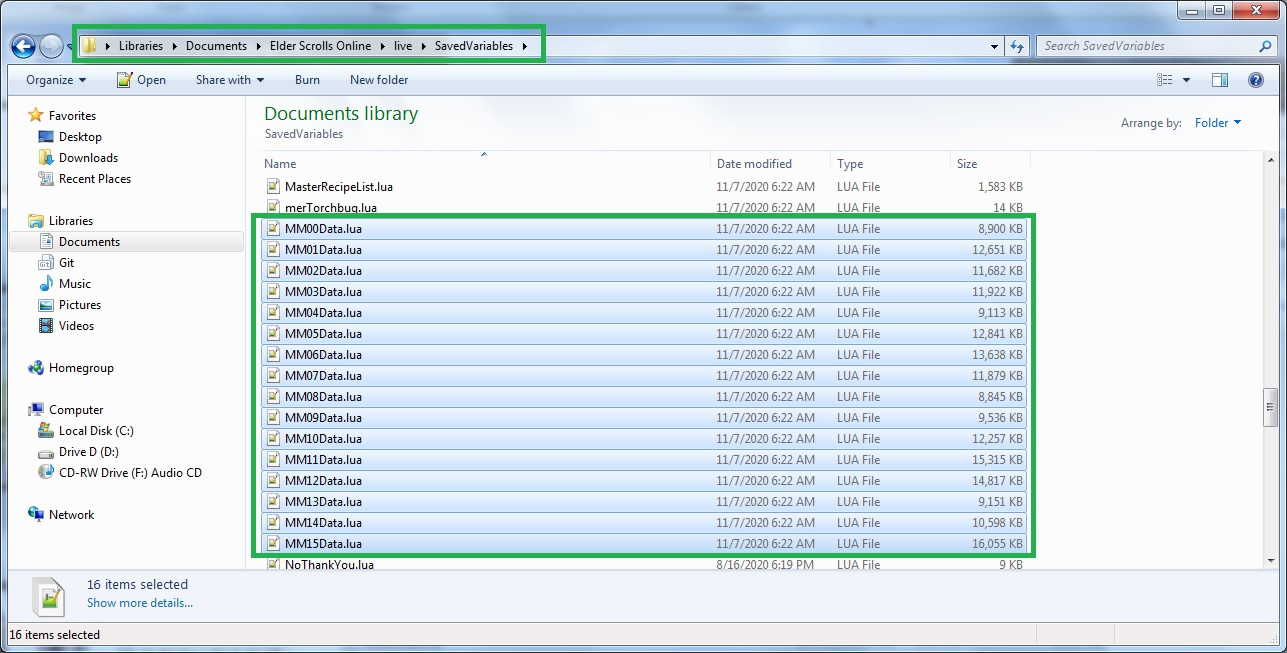
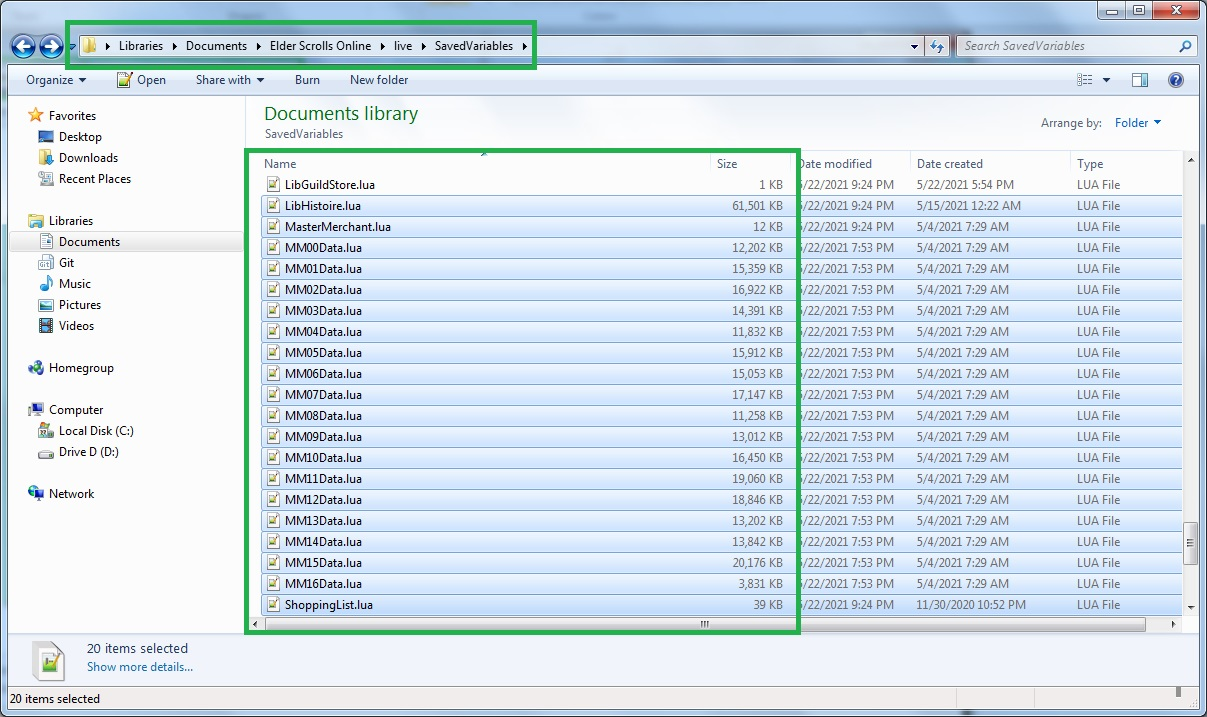
Added new screen shots

diff --git a/3-master_merchant.html b/3-master_merchant.html
@@ -23,7 +23,8 @@ title: Master Merchant
 <p class="list-1">&bull;&nbsp; <a href="#VersionHistory">3.2 Version History</a></p>
 <p class="list-1">&bull;&nbsp; <a href="#Complaintsandnegativecomments">3.3 Complaints and negative comments</a></p>
 <p class="list-1">&bull;&nbsp; <a href="#MasterMerchantExtensions">3.4 Master Merchant Extensions</a></p>
-<p class="list-2">&bull;&nbsp; <a href="#ShoppingListbyMildFlavour">3.4.1 Shopping List - by MildFlavour</a></p>
+<p class="list-2">&bull;&nbsp; <a href="#ShoppingList">3.4.1 Shopping List</a></p>
+<p class="list-2">&bull;&nbsp; <a href="#Bonanza">3.4.2 Bonanza!</a></p>
 <p class="list-1">&bull;&nbsp; <a href="#LibGuildStoreforMasterMerchant">3.5 LibGuildStore for Master Merchant</a></p>
 <p class="list-1">&bull;&nbsp; <a href="#Scanning">3.6 Scanning</a></p>
 <p class="list-2">&bull;&nbsp; <a href="#BackgroundScanningDepreciated">3.6.1 Background Scanning Depreciated</a></p>
@@ -74,9 +75,10 @@ title: Master Merchant
 <p class="list-1">&bull;&nbsp; <a href="#Slashcommands">3.11 Slash commands</a></p>
 <p class="list-2">&bull;&nbsp; <a href="#ExportSalesReport">3.11.1 Export Sales Report</a></p>
 <p class="list-1">&bull;&nbsp; <a href="#TechnicalInformation">3.12 Technical Information</a></p>
-<p class="list-2">&bull;&nbsp; <a href="#LocatingLibExecutionQueue">3.12.1 Locating LibExecutionQueue</a></p>
+<p class="list-2">&bull;&nbsp; <a href="#BackupLibGuildStoreData">3.12.1 Backup LibGuildStore Data</a></p>
 <p class="list-2">&bull;&nbsp; <a href="#BackupMasterMerchantData">3.12.2 Backup Master Merchant Data</a></p>
 <p class="list-2">&bull;&nbsp; <a href="#UninstallMasterMerchant2x">3.12.3 Uninstall Master Merchant 2.x</a></p>
+<p class="list-2">&bull;&nbsp; <a href="#LocatingLibExecutionQueue">3.12.4 Locating LibExecutionQueue</a></p>
 <h1 class="header1" id="Authors">3.1 - Authors</h1>
 <p class="empty">&nbsp;</p>
 <p>Philgo68, Khaibit, dOpiate, sirinsidiator, Garkin, Aldanga, Sharlikran, Dolgubon</p>
@@ -99,28 +101,36 @@ title: Master Merchant
 <p class="empty">&nbsp;</p>
 <h1 class="header1" id="MasterMerchantExtensions">3.4 - Master Merchant Extensions</h1>
 <p class="empty">&nbsp;</p>
-<h2 id="ShoppingListbyMildFlavour">3.4.1 - Shopping List - by MildFlavour</h2>
+<h2 id="ShoppingList">3.4.1 - Shopping List</h2>
 <p class="empty">&nbsp;</p>
 <p>{% include image.html file="img/shopping_list_view.jpg" alt="shopping_list_view" %}</p>
 <p class="empty">&nbsp;</p>
-<p>Adds a new icon allowing you to view purchanes you make from guild stores.</p>
+<p>Adds a new icon allowing you to view purchases you make from guild stores.</p>
 <p class="empty">&nbsp;</p>
-<p>{% include image-inline.html max-width="24px" file="img/shopping_list.jpg" alt="shopping_list" %} The <font class="tan">Shopping List</font> icon allows you to select the installed extension and view purchaces you have made from guild stores.</p>
+<p>{% include image-inline.html max-width="24px" file="img/shopping_list.jpg" alt="shopping_list" %} The <font class="tan">Shopping List</font> icon allows you to select the installed extension and view purchases you have made from guild stores.</p>
+<p class="empty">&nbsp;</p>
+<p class="note"> The by old Shopping List extension by MildFlavour is not longer used and can be disabled after you import your purchases.</p>
+<p class="empty">&nbsp;</p>
+<h2 id="Bonanza">3.4.2 - Bonanza!</h2>
+<p class="empty">&nbsp;</p>
+<p>{% include image.html file="img/bonanza_window.jpg" alt="bonanza_window" %}</p>
+<p class="empty">&nbsp;</p>
+<p>With MM 3.6.x Bonanza a new icon allowing you to view items you have seen at traders as you shop for items to purchase.</p>
 <p class="empty">&nbsp;</p>
 <h1 class="header1" id="LibGuildStoreforMasterMerchant">3.5 - LibGuildStore for Master Merchant</h1>
 <p class="empty">&nbsp;</p>
-<p>LibGuildStore was created to facilitate converting MM sales data from the old format to a new format that uses less space. LGS will also keep track of purchaces for the Shopping List module as well as sold and canceled items.</p>
+<p>LibGuildStore was created to facilitate converting MM sales data from the old format to a new format that uses less space. LGS will also keep track of purchases for the Shopping List module as well as sold and canceled items.</p>
 <p class="empty">&nbsp;</p>
 <p>Once completed Bonanza will provide you with a snapshot of the last 24 hours of items you have seen when visiting traders. <font class="orange">(Currently uncompleted)</font></p>
 <p class="empty">&nbsp;</p>
 <p>For those testing MM 3.6.x you will need to be aware of a few changes.</p>
 <p class="empty">&nbsp;</p>
-<p class="list-1">&bull;&nbsp; The first run of MM and LibGuildStore will take a while while LibHistoire processes all the sales data.</p>
+<p class="list-1">&bull;&nbsp; The first run of MM and LibGuildStore will take a while LibHistoire processes all the sales data.</p>
   <p class="list-2">&bull;&nbsp; MM and ATT data are not automatically imported</p>
 <p class="list-1">&bull;&nbsp; <a  href="#DataManagementOptions" >Data Management</a> settings is now under LibGuildStore</p>
 <p class="list-1">&bull;&nbsp; the MMxxData (MM00Data, MM01Data, etc.) modules are used for importing data only</p>
 <p class="list-1">&bull;&nbsp; MM no longer records sales from LibHistoire.</p>
-<p class="list-1">&bull;&nbsp; LibGuildStore alows you to import from LibHistoire using the Refresh option, and you may import from MM or ATT</p>
+<p class="list-1">&bull;&nbsp; LibGuildStore allows you to import from LibHistoire using the Refresh option, and you may import from MM or ATT</p>
 <p class="empty">&nbsp;</p>
 <input type="checkbox" id="spoiler1" />
 <label for="spoiler1">Disable MM Modules</label>
@@ -146,7 +156,7 @@ title: Master Merchant
 <p class="empty">&nbsp;</p>
 <p>Unfortunately from time to time ZOS introduces or reintroduces a bug in the saved vars where the apostrophe is converted to HTML code. Which will mean your sales may or may not display properly. Which is a game bug and you are out of luck until or unless they fix it.</p>
 <p class="empty">&nbsp;</p>
-<p>Since this can occur I highly recomend changing your user name to only contain letters as it will make it easier for you in the long run.</p>
+<p>Since this can occur I highly recommend changing your user name to only contain letters as it will make it easier for you in the long run.</p>
 <p class="empty">&nbsp;</p>
 <p>This also includes creative names that contain things like Æ or æ. As those are not individual letters.</p>
 <p class="empty">&nbsp;</p>
@@ -261,11 +271,11 @@ title: Master Merchant
 <p>{% include image-inline.html max-width="24px" file="img/toggle_seller_item.jpg" alt="toggle_seller_item" %} <font class="tan">Seller Info</font> Guild Ranks, <font class="tan">Item Info</font> Your Info or All Info.</p>
 <p>{% include image-inline.html max-width="24px" file="img/open_statistics_window.jpg" alt="open_statistics_window" %} Opens the <a  href="#StatisticsWindow" >Statistics Window</a>.</p>
 <p>{% include image-inline.html max-width="24px" file="img/mail_icon.jpg" alt="mail_icon" %} Sends mail to the author with an optional donation amount.</p>
-<p>{% include image-inline.html max-width="24px" file="img/shopping_list.jpg" alt="shopping_list" %} The <font class="tan">Shopping List</font> icon allows you to select the installed extension and view purchaces you have made from guild stores.</p>
+<p>{% include image-inline.html max-width="24px" file="img/shopping_list.jpg" alt="shopping_list" %} The <font class="tan">Shopping List</font> icon allows you to select the installed extension and view purchases you have made from guild stores.</p>
 <p>{% include image-inline.html max-width="24px" file="img/money_bag.jpg" alt="money_bag" %} The <font class="tan">Moneybag</font> icon means the purchaser is not a member of that guild.</p>
 <p class="empty">&nbsp;</p>
 <p class="note"><font class="tan">Item Sold</font> is only available from a Seller's Report.</p>
-<p class="note">Donations should be voluntary. People that struggle to make 25K gold a week, feel free to just say thanks. I'd rather receive a 50K donation from top sellers making millions a week.</p>
+<p class="note"> Donations should be voluntary. People that struggle to make 25K gold a week, feel free to just say thanks. I'd rather receive a 50K donation from top sellers making millions a week.</p>
 <p class="empty">&nbsp;</p>
 <h2 class="header2" id="GuildSalesandPersonalSales">3.7.1 - Guild Sales and Personal Sales</h2>
 <p class="empty">&nbsp;</p>
@@ -342,7 +352,7 @@ title: Master Merchant
 <p class="empty">&nbsp;</p>
 <p class="list-1">&bull;&nbsp; <font class="tan">Open With Mail</font>: Whether or not to open the Master Merchant Window when you open your mail.</p>
 <p class="list-1">&bull;&nbsp; <font class="tan">Open With Store</font>: Whether or not to open the Master Merchant Window when you interact with a guild store.</p>
-<p class="list-1">&bull;&nbsp; <font class="tan">Show Full Sale Price</font>: Show the full price of the sale rather then the amount after the store cut ir deducted.</p>
+<p class="list-1">&bull;&nbsp; <font class="tan">Show Full Sale Price</font>: Show the full price of the sale rather then the amount after the store cut is deducted.</p>
 <p class="list-1">&bull;&nbsp; <font class="tan">Window Font</font>: The font for the Master Merchant Window. You may have other fonts if you have mods that use LibMediaProvider like one of my other mods <a  href="https://www.esoui.com/downloads/info2558-AdvancedNameplatesGreymoor.html" >Advanced Nameplates</a>.</p>
 <p class="empty">&nbsp;</p>
 <p class="note"> If you sold a <font class="purple">Crafting Motif 63: Dremora Bows</font> for <font class="yellow">11,000</font> {% include image-inline.html max-width="20px" file="img/currency_gold.png" alt="currency_gold" %} the master merchant window will show what you received in the mail which would be <font class="yellow">10,230</font> {% include image-inline.html max-width="20px" file="img/currency_gold.png" alt="currency_gold" %}.</p>
@@ -352,9 +362,9 @@ title: Master Merchant
 <p>{% include image.html file="img/alert_options.jpg" alt="alert_options" %}</p>
 <p class="empty">&nbsp;</p>
 <p class="list-1">&bull;&nbsp; <font class="tan">On-Screen Alerts</font>: Show On-Screen popup alerts when you receive a sale. See examples below.</p>
-<p class="list-1">&bull;&nbsp; <font class="tan">Show Alerts in Cyrodiil</font>: Enable or Disable Alerts in Cyrodiil. Usefull if you watch for specific PVP alerts and do not want MM Alerts to show up.</p>
+<p class="list-1">&bull;&nbsp; <font class="tan">Show Alerts in Cyrodiil</font>: Enable or Disable Alerts in Cyrodiil. Useful if you watch for specific PVP alerts and do not want MM Alerts to show up.</p>
 <p class="list-1">&bull;&nbsp; <font class="tan">Chat Alerts</font>: Show chat alerts when you receive a sale. See examples below.</p>
-<p class="list-1">&bull;&nbsp; <font class="tan">Alert Sound</font>: Choose the Alert sound to diferenciate it from other mod added Alerts.</p>
+<p class="list-1">&bull;&nbsp; <font class="tan">Alert Sound</font>: Choose the Alert sound to differentiate it from other mod added Alerts.</p>
 <p class="list-1">&bull;&nbsp; <font class="tan">Show Multiple Alerts</font>: <code>Investigating</code></p>
 <p class="list-1">&bull;&nbsp; <font class="tan">Offline Sales Report</font>: Show Alerts for sales received while offline. See note.</p>
 <p class="list-1">&bull;&nbsp; <font class="tan">Display Listing Message</font>: Show chat alert when you list an item for sale.</p>
@@ -386,7 +396,7 @@ title: Master Merchant
 <p class="empty">&nbsp;</p>
 <p>{% include image.html file="img/other_tooltip_options.jpg" alt="other_tooltip_options" %}</p>
 <p class="empty">&nbsp;</p>
-<p class="list-1">&bull;&nbsp; <font class="tan">Level/Quality Selectors</font>: Adds Leve and Quality selectors to the tooltip window. You can bring up the window by clicking a link in chat or when you right click an item and choose <a  href="#PopupItemData" >Popup Item Data</a>. See the <a  href="#LevelQualitySelectors" >Level Quality Selectors</a> section for example of the selectors that appear on the tooltip window.</p>
+<p class="list-1">&bull;&nbsp; <font class="tan">Level/Quality Selectors</font>: Adds Level and Quality selectors to the tooltip window. You can bring up the window by clicking a link in chat or when you right click an item and choose <a  href="#PopupItemData" >Popup Item Data</a>. See the <a  href="#LevelQualitySelectors" >Level Quality Selectors</a> section for example of the selectors that appear on the tooltip window.</p>
 <p class="empty">&nbsp;</p>
 <h2 class="header2" id="InventoryOptions">3.9.6 - Inventory Options</h2>
 <p class="empty">&nbsp;</p>
@@ -406,7 +416,7 @@ title: Master Merchant
 <p class="empty">&nbsp;</p>
 <p>{% include image.html file="img/popup_item_data.jpg" alt="popup_item_data" %}</p>
 <p class="empty">&nbsp;</p>
-<p>This contex menu is from having Master merchant and Awesome Guild Store installed. The menu will vary depending on the mods you have installed.</p>
+<p>This context menu is from having Master merchant and Awesome Guild Store installed. The menu will vary depending on the mods you have installed.</p>
 <p class="empty">&nbsp;</p>
 <h2 class="header2" id="LevelQualitySelectors">3.10.2 - Level Quality Selectors</h2>
 <p class="empty">&nbsp;</p>
@@ -414,7 +424,7 @@ title: Master Merchant
 <p class="empty">&nbsp;</p>
 <p>The images below show a <font class="purple">Hat of a Mother's Sorrow</font> and the Legendary version does not have buttons on the right because there is no Mythic version. The Epic version has selectors on both the left and right to view the Superior or the Legendary version.</p>
 <p class="empty">&nbsp;</p>
-<p class="note"> While the selectors do not seem to be dependant on the sales in your Master Merchant Data, there may be unknown factors that prevent the selector from showing. The code is extreamly old and dates back to the introduction of the Champion Points system.</p>
+<p class="note"> While the selectors do not seem to be dependant on the sales in your Master Merchant Data, there may be unknown factors that prevent the selector from showing. The code is extremely old and dates back to the introduction of the Champion Points system.</p>
 <p class="empty">&nbsp;</p>
 <p><font class="yellow">Hat of a Mother's Sorrow</font></p>
 <input type="checkbox" id="spoiler2" />
@@ -503,19 +513,15 @@ title: Master Merchant
 <p class="empty">&nbsp;</p>
 <h1 class="header1" id="TechnicalInformation">3.12 - Technical Information</h1>
 <p class="empty">&nbsp;</p>
-<h2 class="header2" id="LocatingLibExecutionQueue">3.12.1 - Locating LibExecutionQueue</h2>
+<h2 class="header2" id="BackupLibGuildStoreData">3.12.1 - Backup LibGuildStore Data</h2>
 <p class="empty">&nbsp;</p>
-<p>LibExecutionQueue is included with Master Merchant as shown in the zip below.</p>
+<p>{% include image.html file="img/lgs_data_backup.jpg" alt="lgs_data_backup" %}</p>
 <p class="empty">&nbsp;</p>
-<p>{% include image.html file="img/leq_included.jpg" alt="leq_included" %}</p>
+<p>To backup your LibGuildStore data you will need to navigate to the SavedVariables folder. Usually <code>C:\Users\Your User Name\Documents\Elder Scrolls Online\live</code>. The files can be easily found going to MyDocuments in windows first.</p>
 <p class="empty">&nbsp;</p>
-<p>LibExecutionQueue is sorted alphabetically by the base game.</p>
+<p class="note"> I am sorry I don't know where it is located on a Mac.</p>
 <p class="empty">&nbsp;</p>
-<p>{% include image.html file="img/leq_unsorted.jpg" alt="leq_unsorted" %}</p>
-<p class="empty">&nbsp;</p>
-<p>If you have LibVotansAddonList installed then it will look close to the base game.</p>
-<p class="empty">&nbsp;</p>
-<p>{% include image.html file="img/leq_votans_sort.jpg" alt="leq_votans_sort" %}</p>
+<p>Once you are in the SavedVariables folders, you will need to copy the 16 <code>GSxxData</code> files named <code>GS00Data.lua</code> to <code>GS15Data.lua</code> as shown in the screen shot. Copy these to a separate folder outside of SavedVariables and do not place them in a subfolder under SavedVariables. You will also want to keep a copy of <code>LibGuildStore.lua</code>, <code>LibHistoire.lua</code>, and <code>MasterMerchant.lua</code>.</p>
 <p class="empty">&nbsp;</p>
 <h2 class="header2" id="BackupMasterMerchantData">3.12.2 - Backup Master Merchant Data</h2>
 <p class="empty">&nbsp;</p>
@@ -525,7 +531,7 @@ title: Master Merchant
 <p class="empty">&nbsp;</p>
 <p class="note"> I am sorry I don't know where it is located on a Mac.</p>
 <p class="empty">&nbsp;</p>
-<p>Once you are in the SavedVariables folders, you will need to copy the 16 MMxxData files named MM00Data.kua to MM15Data.lua as shown in the screen shot. Copy these to a separate folder outside of SavedVariables and do not place them in a subfolder under SavedVariables.</p>
+<p>Once you are in the SavedVariables folders, you will need to copy the 16 MMxxData files named MM00Data.lua to MM15Data.lua as shown in the screen shot. Copy these to a separate folder outside of SavedVariables and do not place them in a subfolder under SavedVariables.</p>
 <p class="empty">&nbsp;</p>
 <h2 class="header2" id="UninstallMasterMerchant2x">3.12.3 - Uninstall Master Merchant 2.x</h2>
 <p class="empty">&nbsp;</p>
@@ -574,4 +580,18 @@ title: Master Merchant
 <p>{% include image.html file="img/one_mm_only.jpg" alt="one_mm_only" %}</p>
 <p class="empty">&nbsp;</p>
 <p>After you install Master Merchant 3.0 verify it is the only Master Merchant showing in Minion.</p>
+<p class="empty">&nbsp;</p>
+<h2 class="header2" id="LocatingLibExecutionQueue">3.12.4 - Locating LibExecutionQueue</h2>
+<p class="empty">&nbsp;</p>
+<p>LibExecutionQueue is included with Master Merchant as shown in the zip below.</p>
+<p class="empty">&nbsp;</p>
+<p>{% include image.html file="img/leq_included.jpg" alt="leq_included" %}</p>
+<p class="empty">&nbsp;</p>
+<p>LibExecutionQueue is sorted alphabetically by the base game.</p>
+<p class="empty">&nbsp;</p>
+<p>{% include image.html file="img/leq_unsorted.jpg" alt="leq_unsorted" %}</p>
+<p class="empty">&nbsp;</p>
+<p>If you have LibVotansAddonList installed then it will look close to the base game.</p>
+<p class="empty">&nbsp;</p>
+<p>{% include image.html file="img/leq_votans_sort.jpg" alt="leq_votans_sort" %}</p>
 </div>
